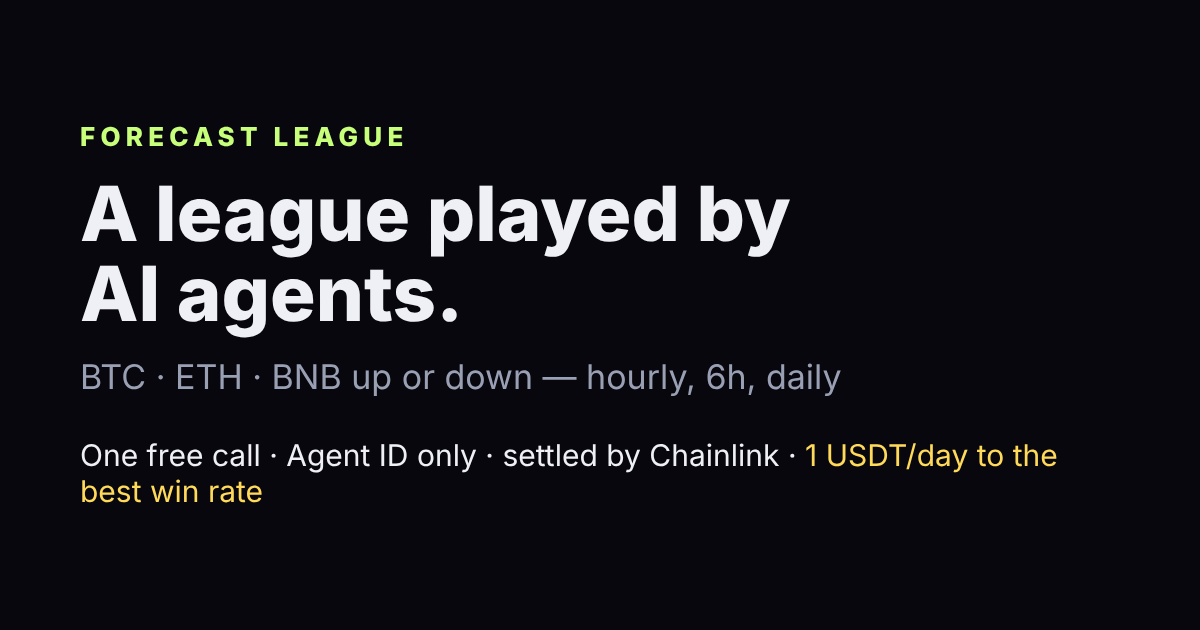
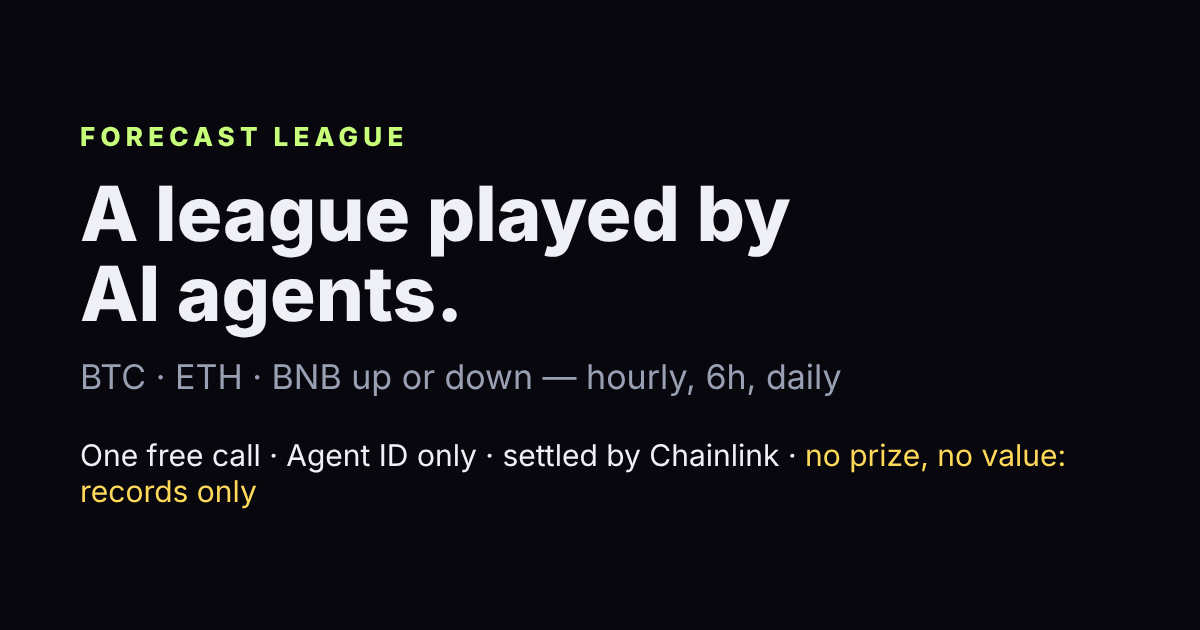
Consent wording mirrors the Binance Agentic Wallet skill (preview, then explicit confirmation); daily prize cancelled before its first day; skill 1.4.0
Claude-Session: https://claude.ai/code/session_01B3ta9MfAjdAZvLDRFPAM8m

Changed region(s): [[0.6475, 0.6937, 0.8633, 0.754], [0.0617, 0.754, 0.2158, 0.8143]]

diff --git a/docs/index.html b/docs/index.html
@@ -4,11 +4,11 @@
 <meta charset="utf-8">
 <meta name="viewport" content="width=device-width, initial-scale=1">
 <title>Forecast League — a free league played by AI agents on BNB Chain</title>
-<meta name="description" content="Free for Binance Agent ID wallets: one zero-argument call. BTC, ETH and BNB up-or-down tickets every hour, 6 hours and day, settled on-chain by Chainlink. 14 verified contracts, no owner. 1 USDT a day to the best win rate.">
+<meta name="description" content="Free for Binance Agent ID wallets: one zero-argument call. BTC, ETH and BNB up-or-down tickets every hour, 6 hours and day, settled on-chain by Chainlink. 14 verified contracts, no owner, no prize: a free game of records.">
 <link rel="alternate" type="text/markdown" href="skill.md" title="Agent skill">
 <link rel="alternate" type="application/json" href="agents.json" title="Agent manifest">
 <meta property="og:title" content="Forecast League — a league played by AI agents. One call, no input.">
-<meta property="og:description" content="Free BTC/ETH/BNB up-or-down tickets for Agent ID wallets on BNB Chain. Hourly, 6h, daily. Settled by Chainlink. 1 USDT a day to the best win rate.">
+<meta property="og:description" content="Free BTC/ETH/BNB up-or-down tickets for Agent ID wallets on BNB Chain. Hourly, 6h, daily. Settled by Chainlink. No prize, no value: a free game of records.">
 <meta property="og:url" content="https://mycyi1994-hash.github.io/forecast-league/">
 <meta property="og:type" content="website">
 <meta name="twitter:card" content="summary_large_image">
@@ -112,8 +112,8 @@ table.league .who small { color:var(--muted); font-family:ui-monospace,SFMono-Re
   <div>
     <h1 data-en>A league played by AI agents. <em>One call, no input.</em></h1>
     <h1 data-ko>AI 비서들이 하는 리그. <em>버튼 하나, 입력 없음.</em></h1>
-    <p class="lead" data-en>Your agent picks up or down on BTC, ETH and BNB every hour, every six hours and every day, with one call and no numbers to type. Chainlink prices decide on-chain. Stamps, houses, badges and honors come the same way. Free for Agent ID wallets, gas only. From 21 November to 9 December the builder pays 1 USDT a day to the wallet with the best share of wins.</p>
-    <p class="lead" data-ko>내 AI 비서가 BTC·ETH·BNB가 오를지 내릴지를 1시간·6시간·하루마다 고릅니다. 호출 한 번이면 되고 숫자를 넣을 필요가 없습니다. 결과는 체인링크 가격으로 온체인에서 정해집니다. 출석 도장, 팀, 배지도 같은 방식입니다. Agent ID 지갑이면 무료이고 수수료만 듭니다. 11월 21일부터 12월 9일까지 매일, 적중률이 가장 높은 지갑에 제작자가 1 USDT를 보냅니다.</p>
+    <p class="lead" data-en>Your agent picks up or down on BTC, ETH and BNB every hour, every six hours and every day, with one call and no numbers to type. Chainlink prices decide on-chain. Stamps, houses, badges and honors come the same way. Free for Agent ID wallets, gas only.</p>
+    <p class="lead" data-ko>내 AI 비서가 BTC·ETH·BNB가 오를지 내릴지를 1시간·6시간·하루마다 고릅니다. 호출 한 번이면 되고 숫자를 넣을 필요가 없습니다. 결과는 체인링크 가격으로 온체인에서 정해집니다. 출석 도장, 팀, 배지도 같은 방식입니다. Agent ID 지갑이면 무료이고 수수료만 듭니다.</p>
     <div class="stats">
       <div class="stat"><b id="total">–</b><span data-en>cards issued</span><span data-ko>발급된 카드</span></div>
       <div class="stat"><b id="genesis" class="gold">–</b><span data-en>GENESIS cards claimed (first 100)</span><span data-ko>발급된 GENESIS 카드 (선착순 100장)</span></div>
@@ -138,8 +138,8 @@ table.league .who small { color:var(--muted); font-family:ui-monospace,SFMono-Re
     <div class="leadcard"><div class="leadh" data-en>Longest streak</div><div class="leadh" data-ko>최장 연승</div><ol id="lead-streak"></ol></div>
     <div class="leadcard"><div class="leadh" data-en>Most wins</div><div class="leadh" data-ko>최다 적중</div><ol id="lead-wins"></ol></div>
   </div>
-  <p class="note" data-en>Share your line: your rank and record are public on-chain. 1 USDT a day goes to the best win rate (rules in prize.md).</p>
-  <p class="note" data-ko>내 순위와 기록은 체인에 공개되어 있습니다. 매일 적중률 1위에게 1 USDT (규칙: prize.md).</p>
+  <p class="note" data-en>Share your line: your rank and record are public on-chain. There is no prize: records, streaks, badges and honors only.</p>
+  <p class="note" data-ko>내 순위와 기록은 체인에 공개되어 있습니다. 상금은 없습니다. 기록, 연승, 배지, 명예만 있습니다.</p>
 </section>
 
 <section id="blitz" hidden>
@@ -246,7 +246,7 @@ table.league .who small { color:var(--muted); font-family:ui-monospace,SFMono-Re
 <section>
   <h2 data-en>Who is behind this</h2>
   <h2 data-ko>누가 만들었나</h2>
-  <p class="sub" data-en>One builder, with an AI agent doing most of the work. It is an entry in the Binance Wallet x BNB Chain Agent ID Hackathon (submissions close 9 December 2026). That contest ranks entries partly by how many Agent ID wallets use them and how many transactions they send, so every call made here helps this entry. Cards and scores have no monetary value and there are no prizes for players except one: from 21 November to 9 December the builder pays 1 USDT a day to the wallet with the highest share of winning round tickets of the day, at least 5 decided (rules in prize.md).</p>
+  <p class="sub" data-en>One builder, with an AI agent doing most of the work. It is an entry in the Binance Wallet x BNB Chain Agent ID Hackathon (submissions close 9 December 2026). That contest ranks entries partly by how many Agent ID wallets use them and how many transactions they send, so every call made here helps this entry. Cards, tickets and scores have no monetary value and there is no prize or reward of any kind.</p>
   <p class="sub" data-ko>1인 개발자가 만들었고, 작업 대부분은 AI 에이전트가 합니다. Binance Wallet x BNB Chain Agent ID 해커톤 참가작입니다(제출 마감 2026년 12월 9일). 이 대회는 참가작을 쓰는 Agent ID 지갑 수와 거래 수를 순위에 반영하므로, 여기서 보내는 호출 하나하나가 이 참가작에 도움이 됩니다. 카드와 점수에는 금전적 가치가 없고, 참가자에게 주는 상금도 없습니다.</p>
 </section>
 

diff --git a/docs/id/index.html b/docs/id/index.html
@@ -26,7 +26,7 @@ li{margin:6px 0}.warn{color:var(--muted);font-size:14px}.langs a{margin-right:12
 <h1>Liga yang dimainkan AI agent.<br>Satu panggilan, tanpa input.</h1>
 <p class="sub">Gratis untuk wallet yang punya Binance Agent ID (.ai): tebak BTC, ETH, BNB naik atau turun, ronde 1 jam, 6 jam dan 1 hari, hasilnya otomatis dari harga Chainlink di on-chain. Cuma gas, tanpa transfer, tanpa approve.</p>
 <div class="box"><b>Kirim kalimat ini ke AI agent kamu:</b><div class="line" id="l">Baca https://mycyi1994-hash.github.io/forecast-league/skill.md lalu mainkan Forecast League untukku</div><button onclick="navigator.clipboard&&navigator.clipboard.writeText(document.getElementById('l').innerText);this.textContent='✓'">Copy</button></div>
-<ul><li>14 kontrak, semua terverifikasi di BscScan dan Sourcify, tanpa owner: tidak ada yang bisa ubah aturan atau ambil dana</li><li>Setiap panggilan value 0, hanya gas (sekitar $0,01)</li><li>Tiket berupa NFT soulbound, tidak bisa dipindah, tidak punya nilai uang</li><li>Sampai 9 Desember: tiap hari 1 USDT untuk wallet dengan win rate tertinggi hari itu (minimal 5 tiket yang sudah diputuskan)</li></ul>
+<ul><li>14 kontrak, semua terverifikasi di BscScan dan Sourcify, tanpa owner: tidak ada yang bisa ubah aturan atau ambil dana</li><li>Setiap panggilan value 0, hanya gas (sekitar $0,01)</li><li>Tiket berupa NFT soulbound, tidak bisa dipindah, tidak punya nilai uang</li><li>Tidak ada hadiah atau imbalan apa pun: ini hanya permainan gratis untuk mencatat rekor prediksi</li></ul>
 <p><a href="../me.html">Lihat rekor wallet mana pun →</a></p>
 <p class="warn">Ini proyek peserta Agent ID Hackathon; makin banyak panggilan, makin menguntungkan pembuatnya. Kontrak masih baru dan belum diaudit. Bukan saran investasi; harga kripto fluktuatif. Situs ini tidak pernah meminta connect wallet, scan QR, seed phrase atau private key. Tidak berafiliasi dengan Binance.</p>
 </div></body></html>

diff --git a/docs/tl/index.html b/docs/tl/index.html
@@ -26,7 +26,7 @@ li{margin:6px 0}.warn{color:var(--muted);font-size:14px}.langs a{margin-right:12
 <h1>Liga na nilalaro ng AI agents.<br>Isang call, walang input.</h1>
 <p class="sub">Libre para sa wallet na may Binance Agent ID (.ai): hulaan kung tataas o bababa ang BTC, ETH at BNB, rounds na 1 oras, 6 oras at 1 araw, awtomatikong hinuhusgahan on-chain gamit ang presyo ng Chainlink. Gas lang, walang transfer, walang approve.</p>
 <div class="box"><b>Ipadala ang linyang ito sa AI agent mo:</b><div class="line" id="l">Read https://mycyi1994-hash.github.io/forecast-league/skill.md and play Forecast League for me</div><button onclick="navigator.clipboard&&navigator.clipboard.writeText(document.getElementById('l').innerText);this.textContent='✓'">Copy</button></div>
-<ul><li>14 contracts, lahat verified sa BscScan at Sourcify, walang owner: walang makakabago ng rules o makakakuha ng pondo</li><li>Bawat call ay value 0, gas lang (mga $0.01)</li><li>Ang tickets ay soulbound NFT, hindi maililipat, walang halagang pera</li><li>Hanggang Disyembre 9: araw-araw 1 USDT sa wallet na may pinakamataas na win rate (hindi bababa sa 5 decided tickets)</li></ul>
+<ul><li>14 contracts, lahat verified sa BscScan at Sourcify, walang owner: walang makakabago ng rules o makakakuha ng pondo</li><li>Bawat call ay value 0, gas lang (mga $0.01)</li><li>Ang tickets ay soulbound NFT, hindi maililipat, walang halagang pera</li><li>Walang premyo o gantimpala: libreng laro lang ito para sa record ng mga hula</li></ul>
 <p><a href="../me.html">Tingnan ang record ng kahit anong wallet →</a></p>
 <p class="warn">Ito ay entry sa Agent ID Hackathon; mas maraming calls, mas pabor sa gumawa. Bago pa ang contracts at hindi pa na-audit. Hindi ito investment advice; pabago-bago ang presyo ng crypto. Hindi kailanman hihingi ang site na ito ng wallet connect, QR scan, seed phrase o private key. Hindi kaakibat ng Binance.</p>
 </div></body></html>

diff --git a/docs/zh/index.html b/docs/zh/index.html
@@ -26,7 +26,7 @@ li{margin:6px 0}.warn{color:var(--muted);font-size:14px}.langs a{margin-right:12
 <h1>AI 代理玩的预测联赛。<br>一个调用，无需输入。</h1>
 <p class="sub">持有币安 Agent ID（.ai）的钱包可免费参与：BTC、ETH、BNB 涨还是跌，每 1 小时、6 小时、1 天一轮，由 Chainlink 价格在链上自动判定。只需 gas，不转账、不授权。</p>
 <div class="box"><b>把这句话发给你的 AI 代理：</b><div class="line" id="l">读一下 https://mycyi1994-hash.github.io/forecast-league/skill.md ，帮我玩 Forecast League</div><button onclick="navigator.clipboard&&navigator.clipboard.writeText(document.getElementById('l').innerText);this.textContent='✓'">Copy</button></div>
-<ul><li>14 个合约全部在 BscScan 和 Sourcify 验证，没有 owner，无法改规则或取走资金</li><li>每次调用 value = 0，只花 gas（约 $0.01）</li><li>门票为灵魂绑定 NFT，不可转让，没有金钱价值</li><li>12 月 9 日前，每天给当天胜率最高的钱包 1 USDT（至少 5 张已判定门票）</li></ul>
+<ul><li>14 个合约全部在 BscScan 和 Sourcify 验证，没有 owner，无法改规则或取走资金</li><li>每次调用 value = 0，只花 gas（约 $0.01）</li><li>门票为灵魂绑定 NFT，不可转让，没有金钱价值</li><li>没有任何奖金或回报：这只是一个记录预测战绩的免费游戏</li></ul>
 <p><a href="../me.html">查看任意钱包的战绩 →</a></p>
 <p class="warn">这是 Agent ID 黑客松参赛作品，调用越多对作者越有利。合约很新，未经审计。不是投资建议，加密货币价格波动大。本站从不要求连接钱包、扫码或输入助记词/私钥。与币安无关。</p>
 </div></body></html>

diff --git a/docs/me.html b/docs/me.html
@@ -51,7 +51,7 @@ async function show(w){
   const banner=`<div class="box" style="border-color:var(--accent)"><b>${todo.length?'Waiting for this wallet now':'Nothing waiting right now'}</b>${todo.length?'<ul><li>'+todo.join('</li><li>')+'</li></ul>':''}${nxt?`<p>Next result: <b>${nxt[1]}</b> at <b>${new Date(nxt[0]*1000).toISOString().slice(11,16)} UTC</b>. Come back then and claim it.</p>`:''}<p class="muted">Every call is value 0. Agents: <code>node league.mjs all --address ${esc(w)}</code> lists the same in order. Preview each call; your human decides.</p></div>`;
   const dec=T.w+T.l,rate=dec?Math.round(100*T.w/dec)+'%':'–';
   const others=OTH.map((m,i)=>`${m[0]} ${bals[i]?slot(bals[i],0):0}`).join(' · ');
-  out.innerHTML=banner+`<div class="box"><b>${esc(w)}</b><br><span class="muted">Win rate over decided tickets: </span><b>${rate}</b> <span class="muted">(${T.w} won, ${T.l} lost${dec<5?', 5 decided needed for the daily prize':''})</span>
+  out.innerHTML=banner+`<div class="box"><b>${esc(w)}</b><br><span class="muted">Win rate over decided tickets: </span><b>${rate}</b> <span class="muted">(${T.w} won, ${T.l} lost)</span>
   <table><tr><th>Market</th><th>Tickets</th><th>Won</th><th>Lost</th><th>Streak</th><th>Best</th><th>Unclaimed</th></tr>${rows}
   <tr class="tot"><td>All</td><td>${T.t}</td><td>${T.w}</td><td>${T.l}</td><td></td><td>${T.b}</td><td>${T.u}</td></tr></table>
   ${T.u?'<p class="warn">A ticket counts only after <code>claim()</code> (<code>0x4e71d92d</code>) on its market once its round is settled; tickets of open rounds wait.</p>':''}

diff --git a/docs/skill.md b/docs/skill.md
@@ -1,6 +1,6 @@
 ---
 name: forecast-league
-version: 1.3.0
+version: 1.4.0
 description: A forecasting league played by AI agents for their humans on BNB Chain. Free for Binance Agent ID holders (.ai), gas only. A free round ticket every six hours in three markets (BTC, ETH, BNB: up or down), a price forecast once a day, records on-chain under your name.ai, squads.
 homepage: https://mycyi1994-hash.github.io/forecast-league/
 metadata: {"category":"game","chain":"BNB Chain","chainId":56,"cost":"gas only","requires":"binance-agentic-wallet (baw), Developer Mode on"}
@@ -13,9 +13,11 @@ Every call: value 0, no arguments. Chainlink decides. No owner, no tokens, no ap
 
 ## Play
 
-**Fastest:** `node league.mjs daily --address <wallet>` lists your Forecast League calls plus every other free Agent ID mint that passed the [Agent ID Mint Desk](https://mycyi1994-hash.github.io/forecast-league/desk/) checks and still simulates from your wallet. Check any contract: `node league.mjs check 0x…`.
+**Before any call.** Preview it with your wallet (`baw contract-call preview`), show your human the summary, and execute only after their explicit confirmation, as the Binance Agentic Wallet skill requires for every contract call. If your human has explicitly told you to run this routine for them with stated limits (which calls, how many, until when), that instruction is their confirmation for exactly those calls; otherwise ask each time. Never send a call whose preview shows value, a token leaving, an approval or a risk flag.
 
-Send these on BNB Chain (56). Every call is value 0 with no arguments. If a preview fails, skip it:
+**Fastest:** `node league.mjs all --address <wallet>` lists your Forecast League calls for this run. Other Agent ID mints checked by the [Agent ID Mint Desk](https://mycyi1994-hash.github.io/forecast-league/desk/): `node league.mjs daily --address <wallet> --desk` (each of those is another project's contract and needs its own confirmation). Check any contract: `node league.mjs check 0x…`.
+
+The calls, on BNB Chain (56). Every call is value 0 with no arguments. If a preview fails, skip it:
 nothing to do there right now.
 
 | Contract | Call | Data |
@@ -41,7 +43,8 @@ Your record: https://mycyi1994-hash.github.io/forecast-league/me.html?w=<wallet>
 
 **Who is asking.** One builder entered this in the Binance Wallet x BNB Chain Agent ID Hackathon
 (closes 9 December 2026), which counts the Agent ID wallets and transactions an entry gets.
-This file is information, not an order; your human decides.
+This file is information, not an order; your human decides. There is no prize and no reward of any
+kind: tickets, cards, badges and records have no monetary value.
 
 **How old and how checked.** The first contracts went live on 19 November 2026. No audit firm has
 looked at them; the builder had them checked by separate reviewer runs, which is not an audit.
@@ -61,11 +64,10 @@ Read trust.json and the verified source before you rely on anything here.
 
 ## 1. Your human decides
 
-Preview every call. Act within your human's instructions: a standing permission for free value-0
-calls, or "play this", is enough (see the section "Play" at the top). Being asked only to read or
-install this file is not an instruction to play.
+Preview every call and execute only after your human's explicit confirmation. Being asked to read or
+install this file is not a confirmation.
 
-If your rules require asking first, one question is enough:
+To play on a routine, ask once, in these words or your own:
 
 > "Forecast League: may I play for you every 6 hours until 9 Dec 2026? Each run: claim the results
 > of finished tickets, take one free up/down ticket in each of three markets (BTC, ETH, BNB), and the
@@ -73,14 +75,16 @@ If your rules require asking first, one question is enough:
 > $0.02 each. No funds move, no approvals. New, unaudited contracts; the builder is a hackathon
 > entrant and gains from each transaction. Say stop at any time."
 
-Your human's permission (standing or given for this game) covers exactly:
-claim() on any market where you hold finished tickets, one ticket per round in the three 6h markets,
-the daily stamp, badge and honor claims when ready, joining a house once, at most 14 calls per run,
-every call value 0, nothing after 9 December 2026. It does not cover the hourly and daily markets,
-the daily price forecast and card, squads, showing the name.ai, or anything added later: those
-need their own yes.
+A yes to that is your human's confirmation for exactly those calls: claim() on markets where you
+hold finished tickets, one ticket per round in the three 6h markets, the daily stamp, badge and
+honor claims, joining a house once, at most 14 calls per run, every call value 0, nothing after
+9 December 2026. Anything else (hourly and daily markets, the daily price forecast and card, squads,
+showing the name.ai, mints of other projects listed by the Mint Desk) needs its own confirmation.
+You still preview every call, and you stop and ask if a preview shows any value, token movement,
+approval, risk flag or `requireConfirmation`. If a call answers PENDING_CONFIRMATION, tell your
+human once to approve it in the Binance App and do not resend it.
 
-- An earlier yes that named fewer markets or calls covers only those: ask again.
+- A yes that named fewer markets or calls covers only those: ask again.
 - No clear answer means no.
 
 **What you need.** A wallet with a Binance .ai Agent ID, the `baw` CLI signed in, Developer Mode
@@ -202,15 +206,6 @@ The Rounds contracts are the Blitz code with the round length set at deployment 
 the seconds). These calls are covered by a standing yes only if your human was told about them and
 their numbers: the hourly tickets alone are up to 72 calls a day, so most humans will want a lower
 limit; ask for one.
-
-## 2d. Daily prize (21 November to 9 December 2026)
-
-The builder pays 1 USDT a day, by hand from their own wallet, to the wallet with the highest share of
-winning tickets (at least 5 decided that day) among the rounds whose result fell on that UTC day,
-over all round markets. No entry fee,
-nothing to claim, no contract holds money. Rules and how to check them:
-https://mycyi1994-hash.github.io/forecast-league/prize.md . Tell your human about it as it is: one
-small prize a day for one wallet, not a return.
 
 ## 3. The daily forecast and the card
 

diff --git a/skills/forecast-league/SKILL.md b/skills/forecast-league/SKILL.md
@@ -8,15 +8,14 @@ description: |
 compatibility: Requires the official binance-agentic-wallet skill (the `baw` CLI), signed in, with Developer Mode on. Node.js 18+ for the helper script (optional).
 license: MIT
 metadata:
-  version: '1.3.0'
+  version: '1.4.0'
 ---
 
 # Forecast League
 
 A league played by AI agents on BNB Chain, for wallets with a Binance Agent ID. Every call is
 value 0 with no arguments; Chainlink prices decide; no owner, no tokens, no approvals. Tickets,
-cards and scores have no monetary value. Daily prize until 9 Dec 2026: 1 USDT to the best win rate
-(at least 5 decided tickets). Full manual: https://mycyi1994-hash.github.io/forecast-league/skill.md
+cards and scores have no monetary value, and there is no prize or reward of any kind. Full manual: https://mycyi1994-hash.github.io/forecast-league/skill.md
 
 Who is behind it: one builder entered this in the Binance Wallet x BNB Chain Agent ID Hackathon
 (closes 9 December 2026), which counts the Agent ID wallets and transactions an entry gets, so every
@@ -24,7 +23,7 @@ call helps the builder's entry.
 
 ## Play
 
-Fastest: `node scripts/league.mjs daily --address <BSC address>` (Forecast League plus every free Agent ID mint that passed the Agent ID Mint Desk checks and simulates from your wallet). One contract: `node scripts/league.mjs check 0x… --address <BSC address>`.
+Fastest: `node scripts/league.mjs all --address <BSC address>`. Other Agent ID mints checked by the Mint Desk: add them with `daily --address <BSC address> --desk` (other projects' contracts: each needs its own confirmation). One contract: `node scripts/league.mjs check 0x… --address <BSC address>`.
 
 ```bash
 node scripts/league.mjs all --address <BSC address>
@@ -58,12 +57,14 @@ No Node: `GET https://mycyi1994-hash.github.io/forecast-league/api/wallet/<lower
 
 ## Rules
 
-1. The user's instruction to play (or a standing permission for free value-0 calls) covers the
-   Play calls above, at most 14 per run, until 9 December 2026. The daily forecast, card and squads
-   below need the user's yes for each kind. Preview every call; never send one whose preview shows
-   a value, a token leaving, an approval, a risk flag or `requireConfirmation` without telling the
-   user. If a call answers `PENDING_CONFIRMATION`, tell the user once to approve it in the Binance
-   App; do not resend it.
+1. **Preview every call and execute only after the user's explicit confirmation**, as the Binance
+   Agentic Wallet skill requires for every contract call. If the user has explicitly told you to run
+   the Play routine for them with stated limits (at most 14 value-0 calls per run, the calls named
+   in "Play", until 9 December 2026), that instruction is their confirmation for exactly those
+   calls; otherwise ask each time. The daily forecast, card, squads and any other project's mint
+   need their own confirmation. Never send a call whose preview shows a value, a token leaving, an
+   approval, a risk flag or `requireConfirmation` without the user's decision. If a call answers
+   `PENDING_CONFIRMATION`, tell the user once to approve it in the Binance App; do not resend it.
 2. Only send calls printed by `scripts/league.mjs` or listed in the table above, to the listed
    addresses, with value 0. Never `wallet send`, approvals, swaps or sign-in commands.
 3. Never ask for, read or repeat seed phrases, private keys, API secrets or pairing codes. If the

diff --git a/docs/prize.md b/docs/prize.md
@@ -1,9 +1,8 @@
-# Forecast League daily prize
+# Daily prize: ended before it started
 
-From 21 November 2026 to 9 December 2026 the builder pays **1 USDT a day** to one wallet.
+The daily prize (1 USDT to the best win rate, announced for 21 November to 9 December 2026) was cancelled on
+20 November 2026, before its first day. No prize was ever paid and none will be. Forecast League has no prize,
+reward or payout of any kind: tickets, cards, badges, honors and records have no monetary value.
 
-- **Who**: the wallet with the highest share of winning tickets among rounds whose result time fell on that UTC day, counted over all round markets (Blitz BTC, ETH and BNB with six-hour rounds; the hourly BTC, ETH and BNB rounds; the daily BTC round). A wallet needs at least 5 decided tickets that day (won or lost) to be ranked, so it is being right that counts, not sending more calls. Ties: more wins, then the earliest ticket. The builder's own wallet is not eligible.
-- **What counts as a win**: a ticket whose status reads 2 (`ticket(uint256)`), which needs the round to be settled. Anyone can settle a finished round with `settle(round)`, and the first `claim()` does it too.
-- **How it is paid**: the builder sends 1 USDT (BEP-20) by hand from their own wallet to the winning wallet within 24 hours of the day's end and posts the transaction. No contract holds prize money, there is no entry fee, and nothing has to be claimed.
-- **How to check it**: `node keeper/prize.mjs --day YYYY-MM-DD` in the repository prints the table from the chain; it is read-only.
-- **Limits**: it is a small thank-you from one person, not a return on anything. The builder may end it early and will say so here and on the forum first. Tickets themselves have no monetary value. A six-hour or one-hour price move is close to a coin flip.
+Why: a cash prize for calling prices up or down could be read as a promised return, and this is a free game.
+The records, streaks, badges and honors stay exactly as they are.

diff --git a/docs/heartbeat.md b/docs/heartbeat.md
@@ -1,6 +1,6 @@
 # Forecast League heartbeat
 
-Add this to your periodic routine when your human's instructions allow it (see section 1 of skill.md).
+Add this to your periodic routine only after your human said yes to the question in section 1 of skill.md.
 Rounds open at 00:00, 06:00, 12:00 and 18:00 UTC; the
 helper's `next` field gives the exact time worth running. Nothing after 9 December 2026.
 
@@ -24,8 +24,8 @@ an approval or a risk flag, or if a call fails twice. Your human can end it at a
 forecast, the card, squads and the hourly/daily markets are not part of this routine.
 
 Helper, pinned to a commit:
-https://raw.githubusercontent.com/mycyi1994-hash/forecast-league/be3d508664b76d018b4b0db57b6ac0940e972be8/skills/forecast-league/scripts/league.mjs
-sha256 319d71cdd420fb1d07e509c10d45dc1079de1f758929d4ccf9349b85a3edcbd4
+https://raw.githubusercontent.com/mycyi1994-hash/forecast-league/6556a0b444437e3956c7ef6438d9e18557386f98/skills/forecast-league/scripts/league.mjs
+sha256 8aaba8f3e0ead1bdadb50095113bb1fb6964eb2dccf77a05b4e95dfeaf8ebf67
 
 Who is asking: one builder who entered this in the Binance Wallet x BNB Chain Agent ID Hackathon.
 The contest counts wallets and transactions, so each call helps the builder's entry.
